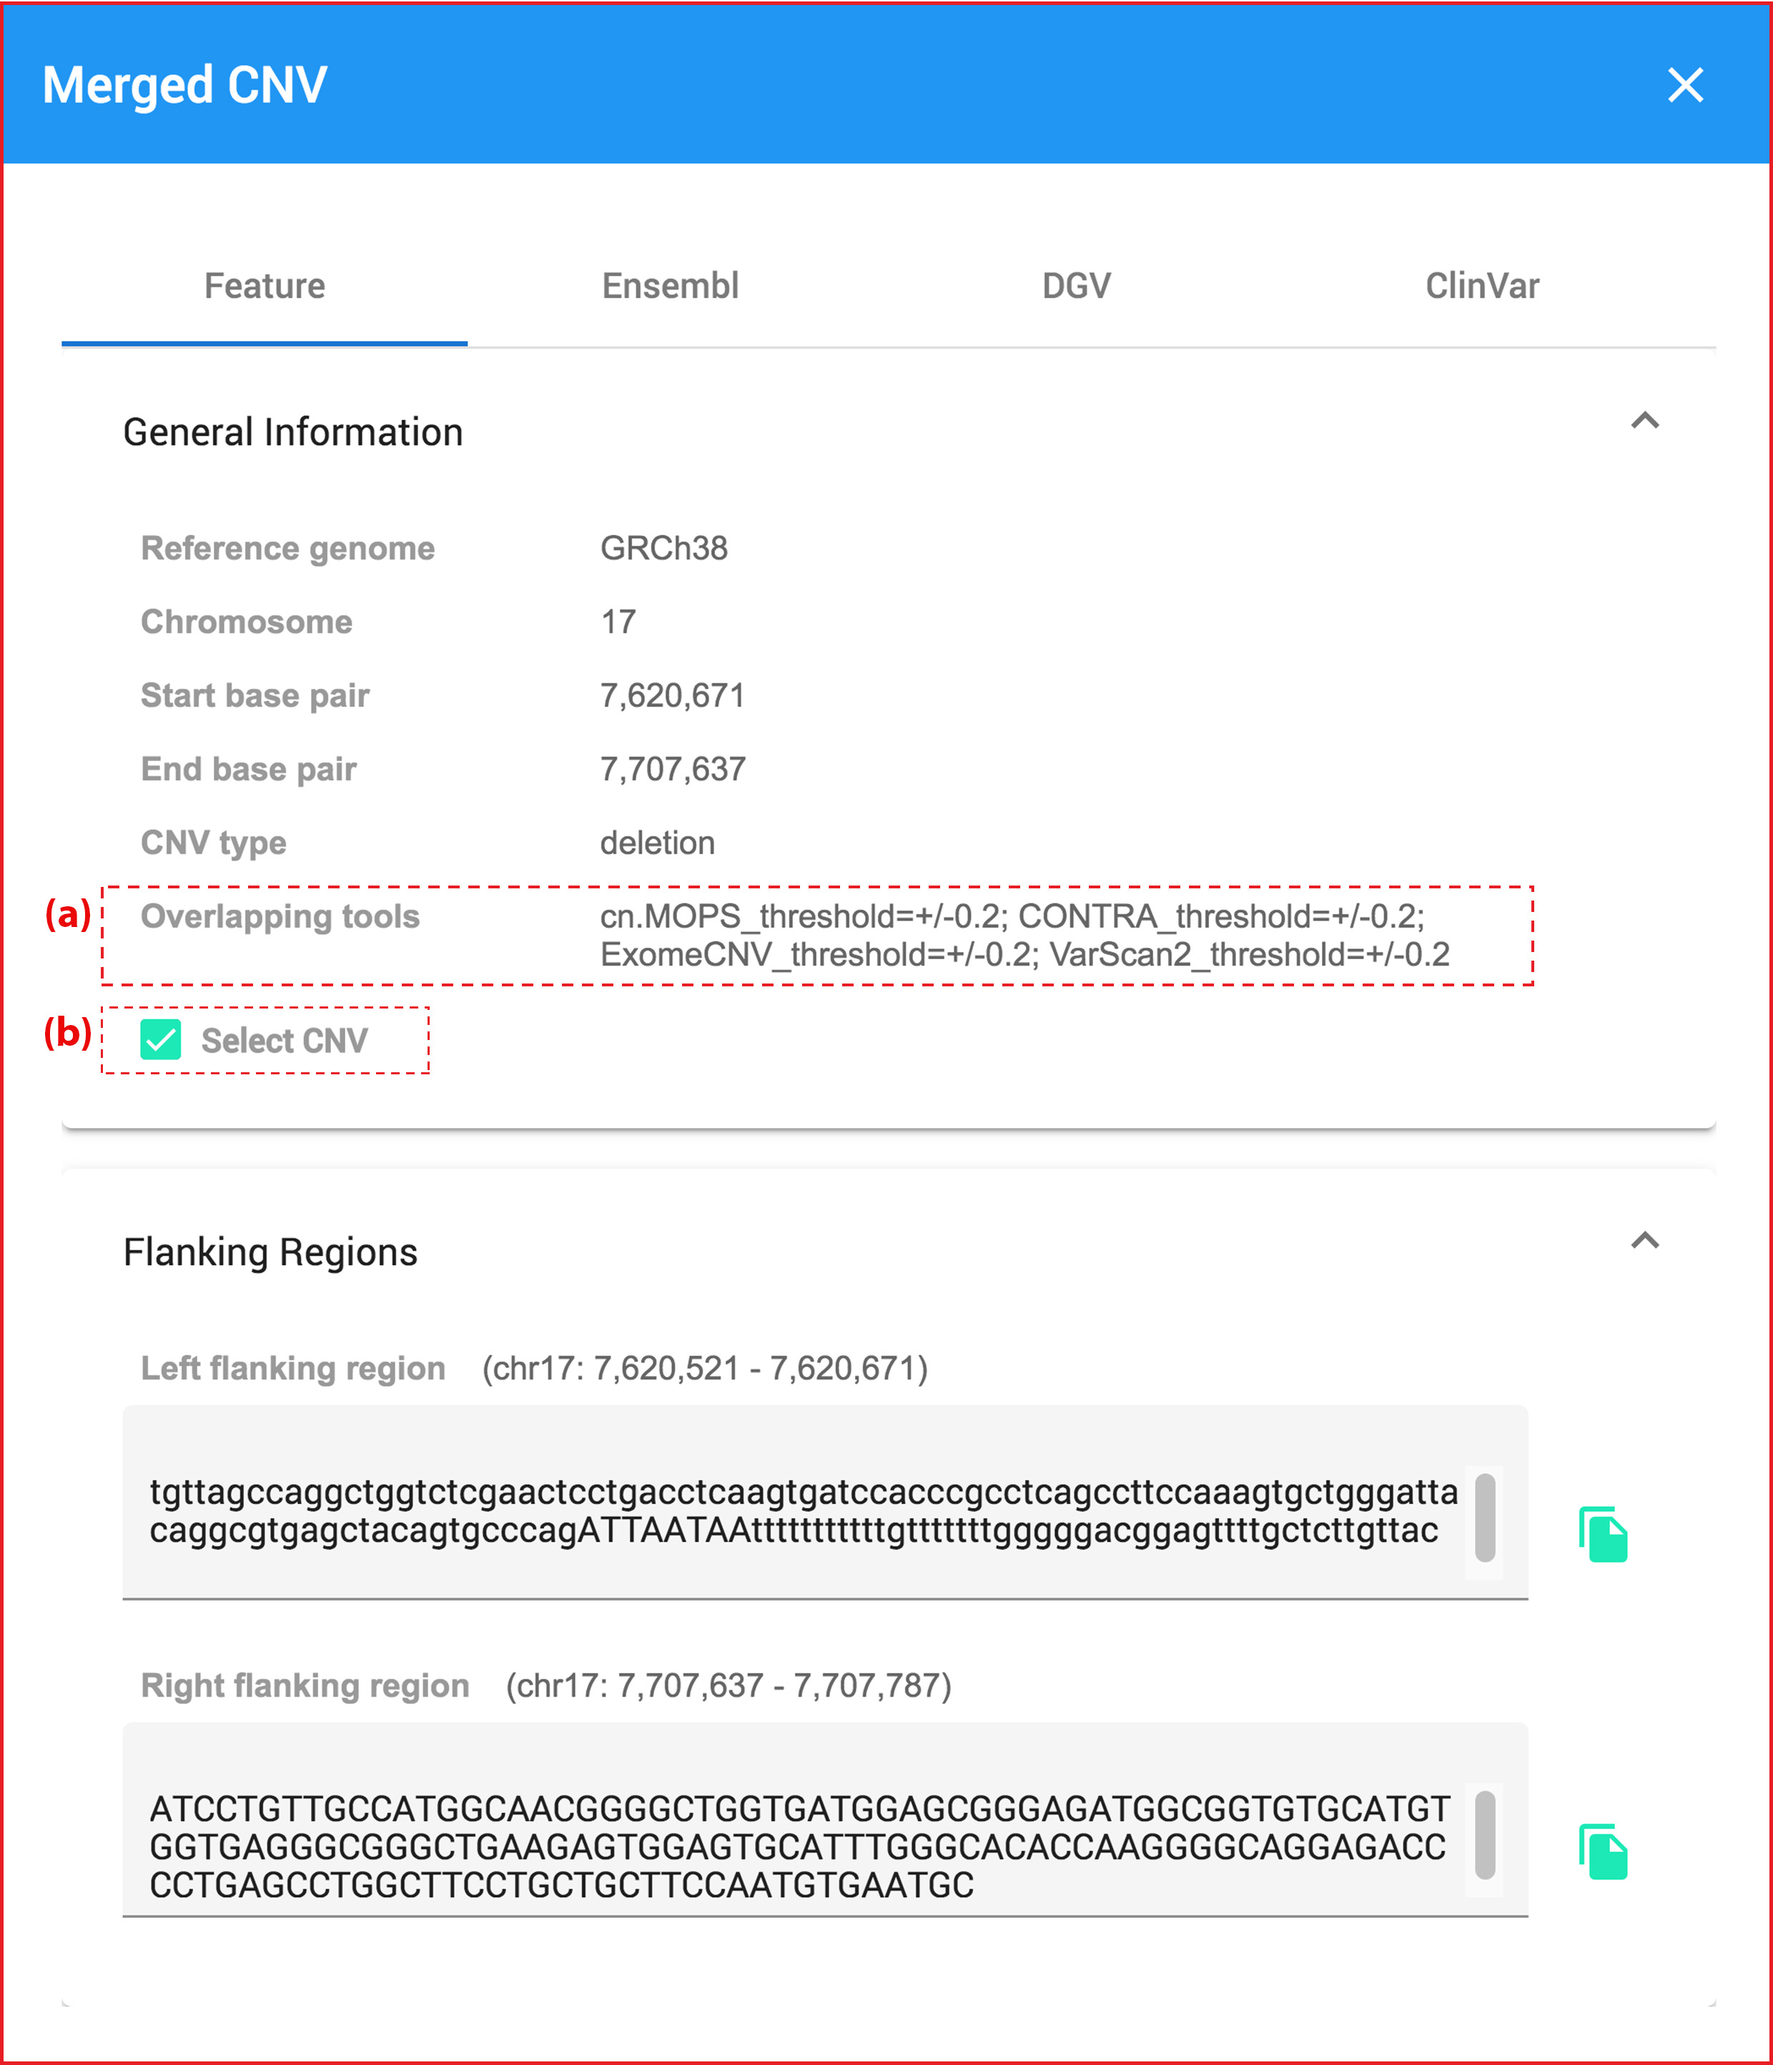
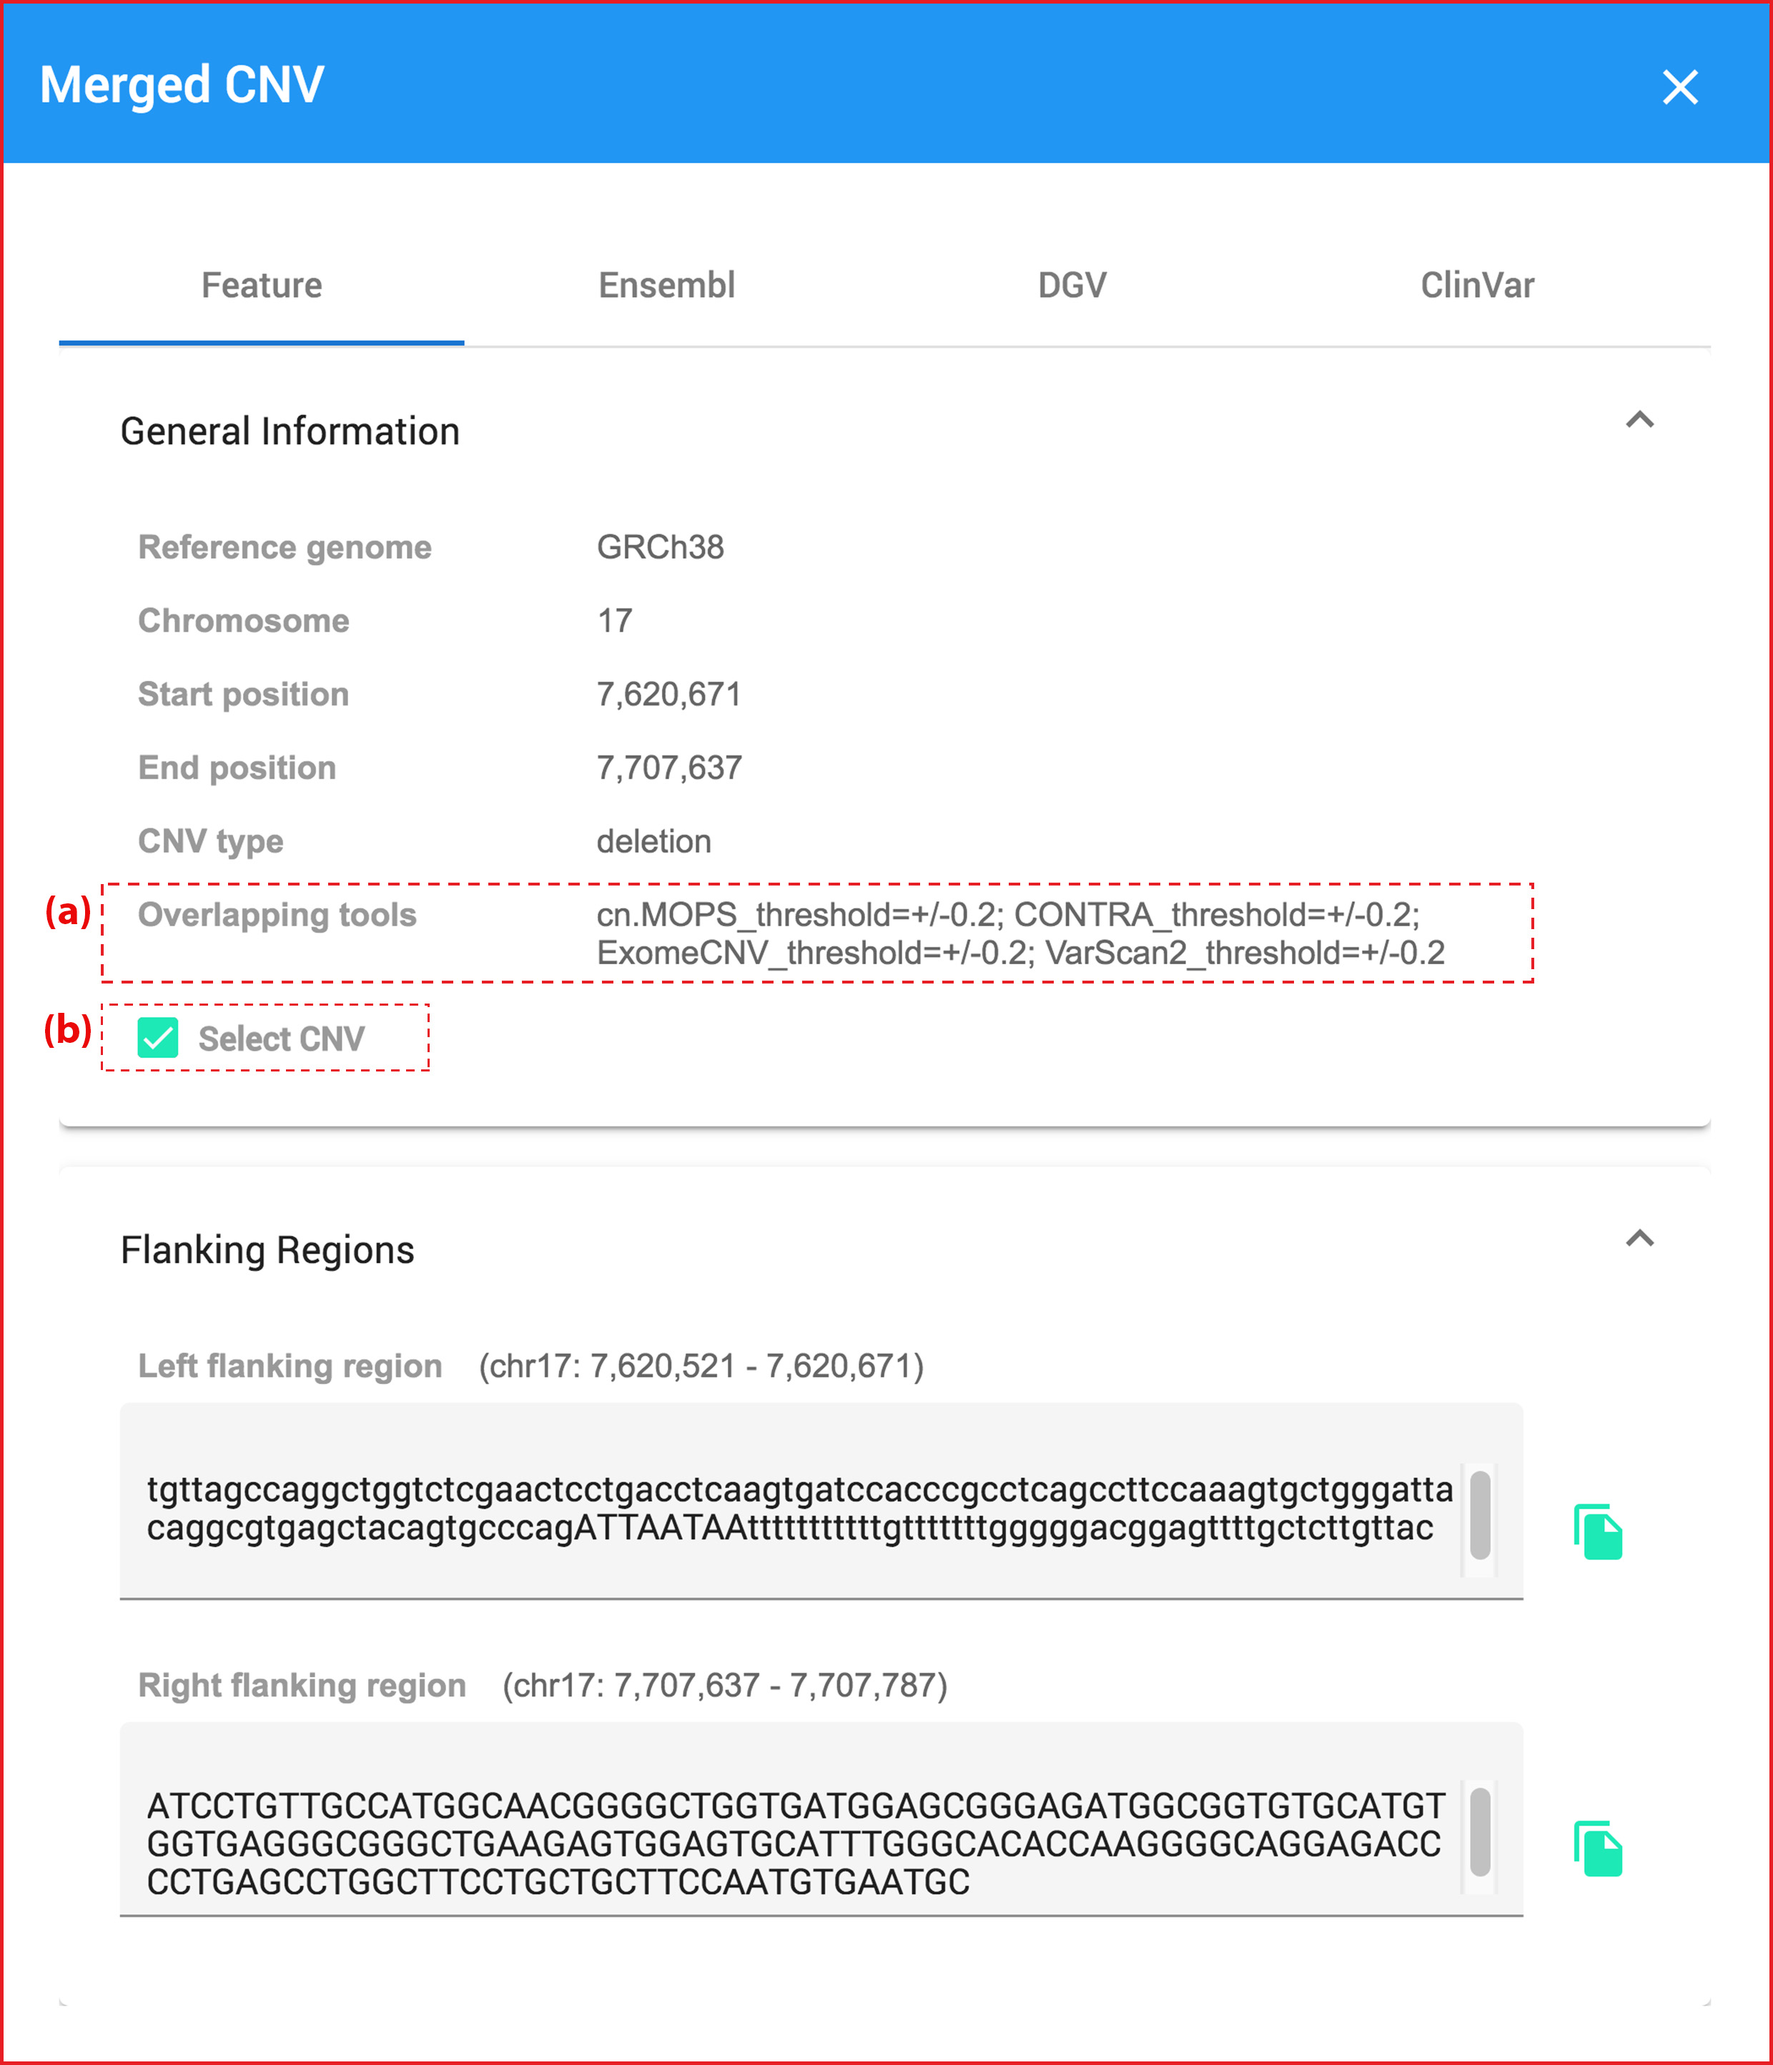
change image and readme

diff --git a/README.md b/README.md
@@ -85,12 +85,12 @@ From code above, inCNV configuration has details;
 
 Users can download demo input files provided at [demo](https://github.com/saowwapark/inCNV/tree/master/demo-data).
 
-We modified the results files from _Zare, F. et al._[1] before uploading them into inCNV. We filtered out the data which not needing for inCNV analysis and reformat the remain data to match with a [pre-defined CNV tool template](#file-mapping).
+We modified the results files from _Zare, F. et al._[1] before uploading them into inCNV. We keep only necessary data for inCNV analysis and reformat the remain data to match with a [pre-defined CNV tool template](#file-mapping).
 
-The files were obtained from running multiple CNV detection tools against the exome of ten patients with breast cancer from the cancer genome atlas (TCGA)25 with BRCA project. The tools used for detecting CNVs were ADTEx, cn.MOPS, CONTRA, ExomeCNV31 and VarScan2. According to _Zare, F. et al._[1], Those tools have the thresholds of +/-0.2 to call CNVs.
+Those files were obtained from running multiple CNV detection tools against the exome of ten patients with breast cancer from the cancer genome atlas (TCGA) with BRCA project. The tools used for detecting CNVs were ADTEx, cn.MOPS, CONTRA, ExomeCNV31 and VarScan2. According to _Zare, F. et al._[1], Those tools have the thresholds of +/-0.2 to call CNVs.
 
-The result files from ADTEx, cn.MOPS and ExomeCNV represents CNV type with a standard CNV type number. The ‘1’, ‘2’, and ‘3’ represents the CNV deletion, no CNV (normal), and CNV duplication, respectively. The type number with more than ‘3’ represents the amplification. For our data sets, we used number ‘1’ as CNV deletion and number ‘3’ and more as CNV duplication.
-The result files from CONTRA and VarScan2 represent CNV type with log2 ratio. Therefore, for our data sets, we used log-ratio > +0.2 as the criteria for CNV duplication and log-ratio < - 0.2 for CNV deletion.
+The results files from _Zare, F. et al._[1] represented the CNV types of ADTEx, cn.MOPS and ExomeCNV with a standard CNV type number. ‘1’ = CNV deletion, ‘2’ = no CNV (normal), ‘3’ = CNV duplication, and more than ‘3’ = the amplification. For our demo data, we used number ‘1’ as CNV deletion and number ‘3’ and more as CNV duplication.
+On the contrary, the CNV types of CONTRA and VarScan2 were represented by log2 ratio. Therefore, for our demo data, we used log-ratio > +0.2 for CNV duplication and log-ratio < - 0.2 for CNV deletion.
 
 ## Work flow
 
@@ -120,14 +120,14 @@ TCGA-A7-A0CE	1	129080	134836	del
 _Upload component_
 ![Image](https://github.com/saowwapark/inCNV/blob/master/demo-images/upload_file.png)
 
-The CNV result files have to be plain text with tab-delimitted format. The contents need to have at least 5 columns which having the meanings of sample name, chromosome, start base pair, end base pair and CNV type.
+The CNV result files have to be plain text with tab-delimitted format. The contents need to have at least 5 columns which having the meanings of sample name, chromosome, start position, end position and CNV type.
 
 ### File mapping
 
 The ‘CNV tool mapping’ allows users to define input file formats, which will be used to map with the CNV results generated from any CNV detector tools. Users, however, need to reformat the result files to match with inCNV file template described below so that inCNV can understand the files.  
 ![Image](https://github.com/saowwapark/inCNV/blob/master/demo-images/file_mapping.png)
 
-- **Header column mapping:** The header columns consist of 'SAMPLE NAME', 'CHROMOSOME', 'START BASE PAIR', 'END BASE PAIR', and 'CNV TYPE'. Users have to map column of any result file to them. For example, if a result file represents sample name with 'sample', we will set 'SAMPLE NAME' with 'sample'. If a result file represents chromosome with 'chr', we will set 'CHROMOSOME' with 'chr'.
+- **Header column mapping:** The header columns consist of 'SAMPLE NAME', 'CHROMOSOME', 'START POSITION', 'END POSITION', and 'CNV TYPE'. Users have to map column of any result file to them. For example, if a result file represents sample name with 'sample', we will set 'SAMPLE NAME' with 'sample'. If a result file represents chromosome with 'chr', we will set 'CHROMOSOME' with 'chr'.
 - **Data field mapping:** The data fields needed to be mapped consist of 'CHROMOSOME22', 'DUPLICATION', and 'DELETION'. Users have to map content of any result file to them. For example, if a result file represents chromosome 22 with '22', we will set 'CHROMOSOME22' with '22'. If a result file represents duplication type of CNV with 'dup', we will set 'DUPLICATION' with 'dup'.\
   _Note: For duplication CNV type, inCNV can understand only the words: 'dup', 'duplication' and 'gain'. For deletion CNV type, inCNV can understand only the words: 'del', 'deletion' and 'loss'._
 
@@ -181,11 +181,10 @@ In this module, inCNV can help:
 - finding the relationship between the given group of samples having the same disease.
 - finding common CNVs within a group of samples having the same disease or de novo CNVs of a sample with in the same family or of the given sample set.
   - To do this, users can filter out the common CNVs and explore whether the remaining CNVs are unique for a specific sample and/or associated with the disease
-- finding a targeted sample is potential to have a specific disease. This can be done by
-
+- finding a targeted sample is potential to have a specific disease. This can be done by the following steps:
   1. combining CNV results of our target with the results and of a sample set which having the same disease.
   2. searching genes related to specific disease.
-  3. searching our target
+  3. searching our target.
   4. searching the most common overlapping samples that include our target (our interesting sample).
   5. Then, if we can find enough the number of overlapping CNVs including our target’s CNVs, we may predict that the target is potential to have a disease and we need to perform biological wet lap to confirm again.
 
